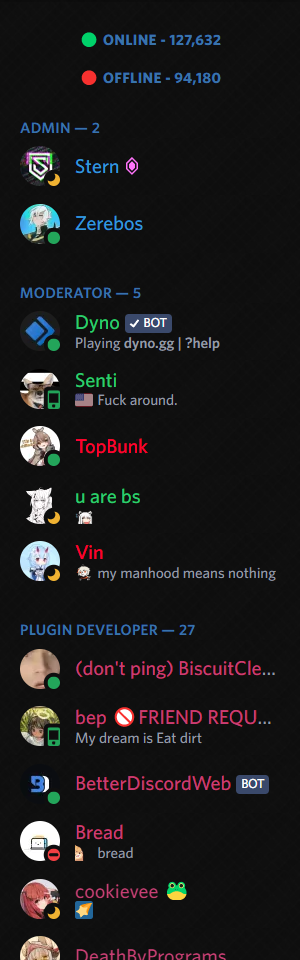
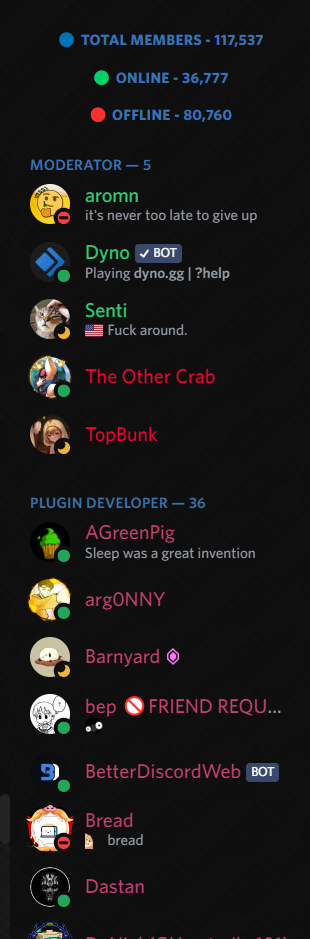
Added Total Members Option

diff --git a/MemberCounter/MemberCounter.plugin.js b/MemberCounter/MemberCounter.plugin.js
@@ -1,8 +1,8 @@
 /**
  * @name MemberCounter
  * @author SyndiShanX, imafrogowo
- * @description Displays the Member Count of a Server at the top of the Member List, can be configured to show Online Members, Offline Members, and a DM Counter.
- * @version 2.13
+ * @description Displays the Member Count of a Server at the top of the Member List, can be configured to show Total Members, Online Members, Offline Members, and a DM Counter.
+ * @version 2.14
  * @invite yzYKRKeWNh
  * @source https://github.com/SyndiShanX/Better-Discord-Plugins/blob/main/MemberCounter/
  * @updateUrl https://github.com/SyndiShanX/Better-Discord-Plugins/blob/main/MemberCounter/MemberCounter.plugin.js
@@ -13,6 +13,7 @@ const { Webpack: {getModule, getStore, Filters}, React, Patcher, Utils } = BdApi
 
 // Set Default Settings
 const userSettings = {
+	showTotalCounter: true,
 	showOnlineCounter: true,
 	showOfflineCounter: true,
 	showDMsCounter: true
@@ -93,6 +94,27 @@ class MemberCounter {
 					);
 				}
 			}
+			var totalCounterStyle = {}
+			// Check if Total Counter is Enabled
+			if (userSettings.showTotalCounter != false) {
+				// Check if Offline Counter is Defined and Set Bottom Margin Accordingly
+				if (userSettings.showOnlineCounter == false && userSettings.showOfflineCounter == false) {
+					totalCounterStyle = { textAlign: "center", marginBottom: "0px" }
+				} else {
+					totalCounterStyle = { textAlign: "center", marginBottom: "-10px" }
+				}
+				var totalCounter = React.createElement("div", {
+						className: "member_counter_wrapper",
+						style: totalCounterStyle,
+					},
+					React.createElement("h1", {
+							className: "member_counter_text total_member_counter membersGroup__85843 container_de798d",
+							style: { color: "var(--channels-default)", fontWeight: "bold" },
+						},
+						`🔵 Total Members - ` + MemberCount.toLocaleString()
+					)
+				);
+			}
 			var onlineCounterStyle = {}
 			// Check if Online Counter is Enabled
 			if (userSettings.showOnlineCounter != false) {
@@ -146,7 +168,7 @@ class MemberCounter {
 				)
 			);
 			const counterWrapper = MemberCount?.toLocaleString() !== undefined ? (
-				React.createElement("div", null, onlineCounter, offlineCounter)
+				React.createElement("div", null, totalCounter, onlineCounter, offlineCounter)
 			) : (
 				React.createElement("div", {
 						className: "dm_counter_wrapper",
@@ -195,7 +217,7 @@ class MemberCounter {
 			
 			settingsPanelWrapper.append(settingWrapper);
 		
-			const offlineMembersLabel = React.createElement("span", {
+			const settingsPanelLabel = React.createElement("span", {
 				className: "settings_panel_label",
 					style: { color: "white" },
 				},
@@ -209,17 +231,18 @@ class MemberCounter {
 					checked,
 					onChange(state) {
 						setChecked(state);
-						console.log('Switch Flipped')
+						//console.log('Switch Flipped')
 						switchState = !switchState
 						userSettings[settingKey] = switchState;
 						BdApi.Data.save("MemberCounter", "settings", userSettings);
 					}
 				});
 			};
-			BdApi.ReactDOM.render(offlineMembersLabel, settingLabel);
+			BdApi.ReactDOM.render(settingsPanelLabel, settingLabel);
 			BdApi.ReactDOM.render(BdApi.React.createElement(Settings), settingSwitch);
 		}
 		
+		createSetting("Show Total Members Counter: ", "showTotalCounter", userSettings.showTotalCounter)
 		createSetting("Show Online Members Counter: ", "showOnlineCounter", userSettings.showOnlineCounter)
 		createSetting("Show Offline Members Counter: ", "showOfflineCounter", userSettings.showOfflineCounter)
 		createSetting("Show DMs Counter: ", "showDMsCounter", userSettings.showDMsCounter)

diff --git a/MemberCounter/README.md b/MemberCounter/README.md
@@ -9,7 +9,7 @@ https://betterdiscord.app/plugin/MemberCount
 
 Filename : `MemberCounter.plugin.js`
 
-Displays the Member Count of a Server at the top of the Member List, can be configured to show Online Members, Offline Members, and a DM Counter.
+Displays the Member Count of a Server at the top of the Member List, can be configured to show Total Members, Online Members, Offline Members, and a DM Counter.
 
 Preview:
 
